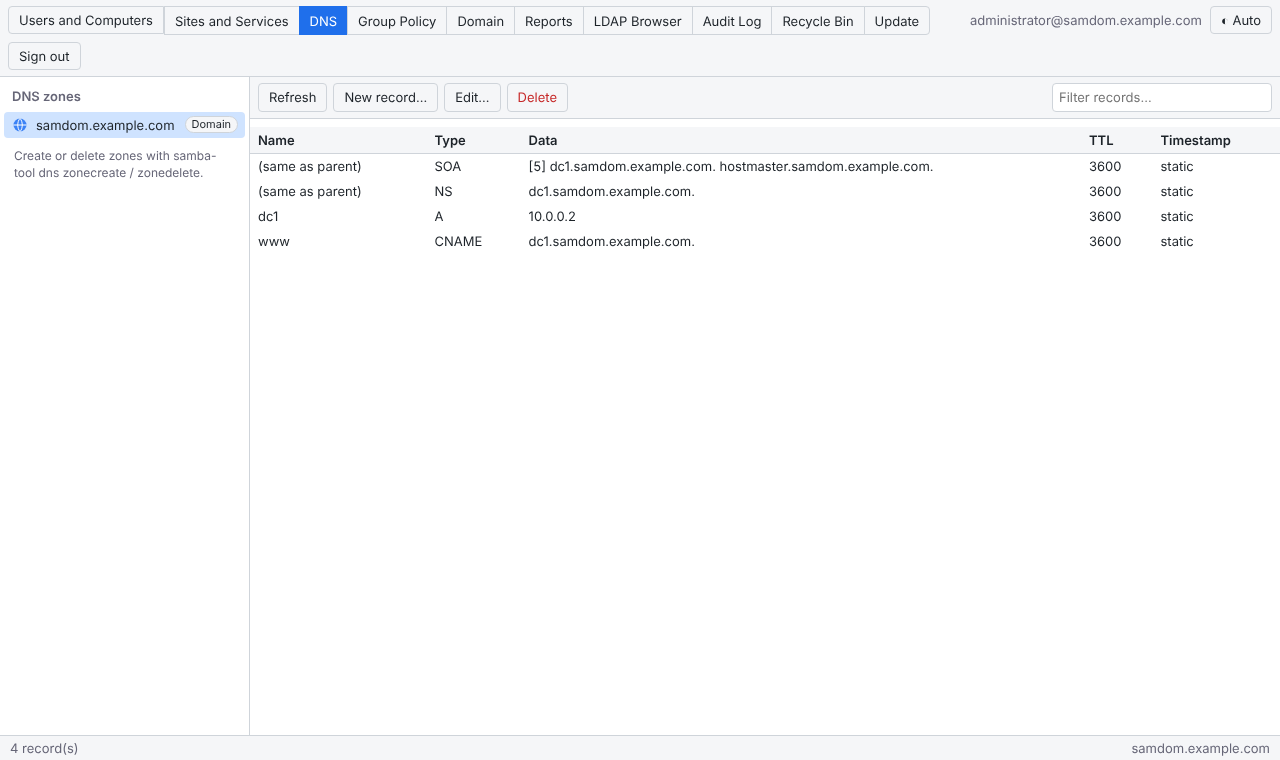
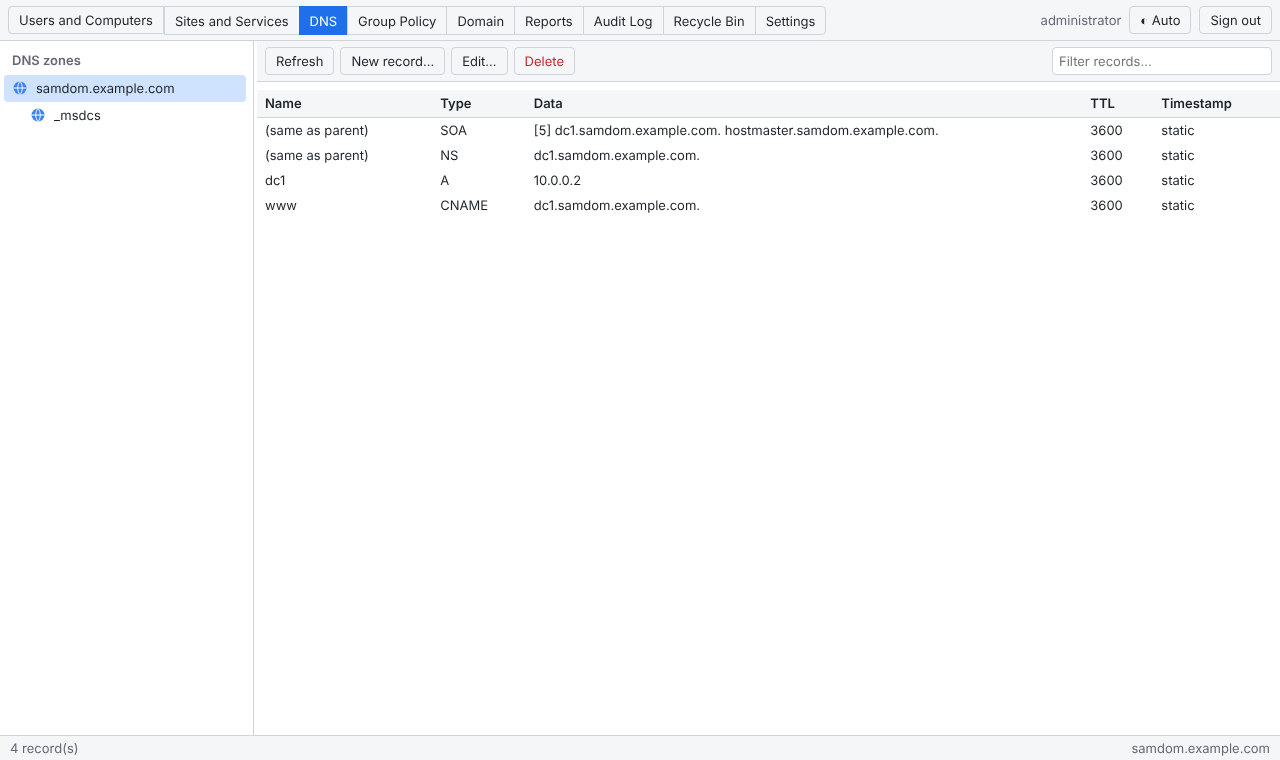
see changelog for release info

diff --git a/source/static/tools.js b/source/static/tools.js
@@ -69,17 +69,25 @@ async function renderDNS(page) {
 
   async function loadZones() {
     try { zones = (await GET('/api/dns/zones')).zones; } catch (e) { return pageStatus(msg, fmtErr(e), true); }
-    zl.replaceChildren(h('div', { class: 'zh' }, 'DNS zones'), ...zones.map(z => {
-      const d = h('div', { class: 'zone' + (zone && zone.dn === z.dn ? ' sel' : '') }, icon(z.reverse ? 'subnet' : 'domain'), z.name, h('span', { class: 'badge' }, z.scope));
+    // A zone named under another zone (_msdcs.ad.example.com under ad.example.com) is shown beneath it.
+    const lower = zones.map(z => z.name.toLowerCase());
+    const parent = z => { let best = -1; lower.forEach((n, i) => { if (z.name.toLowerCase().endsWith('.' + n) && (best < 0 || n.length > lower[best].length)) best = i; }); return best; };
+    const kids = zones.map(() => []), top = [];
+    zones.forEach((z, i) => { const p = parent(z); (p < 0 ? top : kids[p]).push(i); });
+    const row = (i, depth) => {
+      const z = zones[i];
+      const label = depth && z.name.toLowerCase().endsWith('.' + zones[parent(z)].name.toLowerCase()) ? z.name.slice(0, -zones[parent(z)].name.length - 1) : z.name;
+      const d = h('div', { class: 'zone' + (zone && zone.dn === z.dn ? ' sel' : ''), style: depth ? 'padding-left:' + (8 + 18 * depth) + 'px' : '' }, icon(z.reverse ? 'subnet' : 'domain'), label);
       d.addEventListener('click', () => { zone = z; sel = null; loadZones(); loadRecords(); });
       d.addEventListener('contextmenu', e => {
         e.preventDefault();
         const same = zone && zone.dn === z.dn; zone = z; sel = null; loadZones(); if (!same) loadRecords();
         menu(e.clientX, e.clientY, [{ label: 'New record…', fn: () => editRec(null) }, '-', { label: 'Refresh', fn: refresh }]);
       });
-      return d;
-    }), ...(zones.length ? [] : [h('div', { class: 'muted', style: 'padding:8px' }, 'No DNS zones found (is this a Samba AD DNS server?)')]),
-      h('div', { class: 'muted', style: 'padding:10px;font-size:12px' }, 'Create or delete zones with samba-tool dns zonecreate / zonedelete.'));
+      return [d, ...kids[i].flatMap(k => row(k, depth + 1))];
+    };
+    zl.replaceChildren(h('div', { class: 'zh' }, 'DNS zones'), ...top.flatMap(i => row(i, 0)),
+      ...(zones.length ? [] : [h('div', { class: 'muted', style: 'padding:8px' }, 'No DNS zones found (is this a Samba AD DNS server?)')]));
   }
   async function loadRecords() {
     if (!zone) return;

diff --git a/CHANGELOG.md b/CHANGELOG.md
@@ -1,5 +1,21 @@
 # Changelog
 
+## [v27] - 2026-11-21 — DNS zone list: nested subzones, no pills, no hint text
+
+### Changed
+- **`_msdcs` is shown under its parent zone.** Any zone whose name ends in `.<another zone>` is listed beneath that zone,
+  indented and labelled with the short name (`ad.example.com` > `_msdcs`). Reverse zones are unaffected.
+- **Removed the Forest/Domain scope pills** next to zone names.
+- **Removed the "Create or delete zones with samba-tool…" text** under the zone list.
+
+### Verified
+- From `source/`: gofmt, `go vet`, `go test -race ./...`, `CGO_ENABLED=0 go test ./...`, linux/amd64, arm64, arm, 386,
+  riscv64 cross-compiles, `node --check static/*.js`. Zone tree checked in Chromium against the mock server (the mock
+  has no forest zone, so the zone list response was stubbed with `_msdcs` and its parent); snaps 05 and 06 retaken.
+
+### Not verified
+- Against a real Samba DC's zone list.
+
 ## [v26] - 2026-11-21 — Tree rows stay aligned in a narrow pane
 
 ### Fixed
